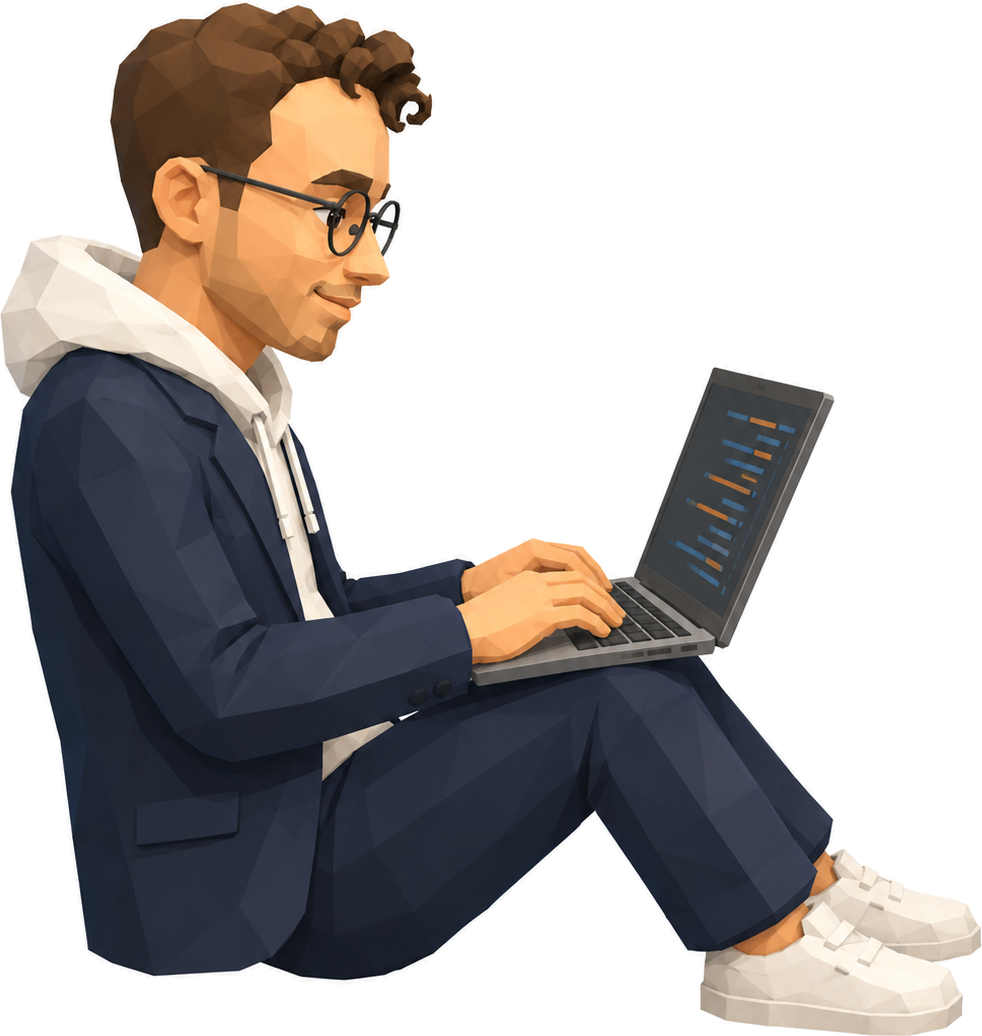
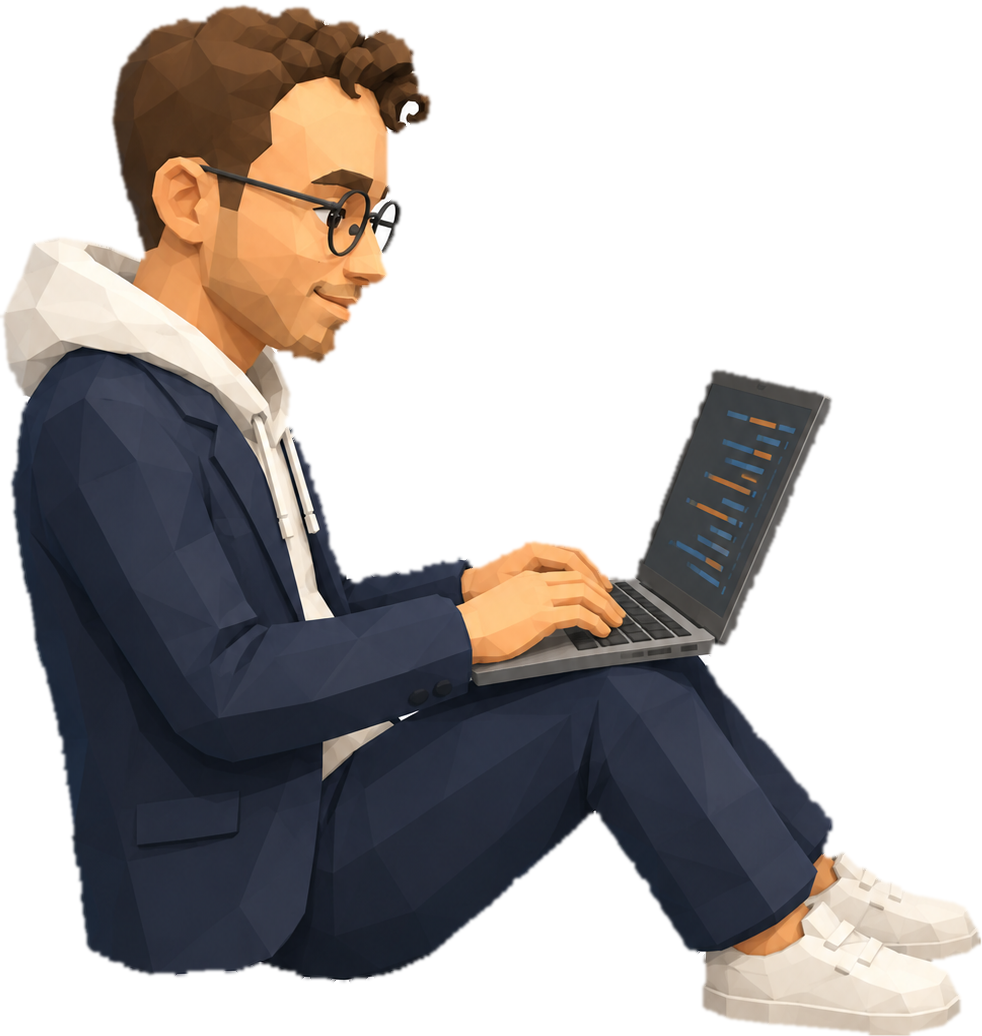
fix update

diff --git a/mockup/js/i18n.js b/mockup/js/i18n.js
@@ -1134,19 +1134,6 @@ const TERM_I18N = {
         '<span class="nf-k">Status:</span> dispo alternance — sept. 2026',
       ],
     },
-    banner: {
-      desc: 'petit dessin ASCII',
-      lines: [
-        '      ╔═══╗',
-        '     ╔╝▓▓▓╚╗',
-        '     ║▓▓▓▓▓║',
-        '     ║▓ ✓ ▓║',
-        '     ╚╗▓▓▓╔╝',
-        '      ╚═╦═╝',
-        '        ║',
-        '  [ HM — SECURED ]',
-      ],
-    },
     notFound: (cmd) => `commande introuvable : ${cmd} — tape <span class="k">help</span> pour la liste.`,
     easterSudo: [
       '<span class="error">[sudo] mot de passe pour hugo :</span> ********',
@@ -1252,19 +1239,6 @@ const TERM_I18N = {
         '<span class="nf-k">Status:</span> available for work-study — Sept. 2026',
       ],
     },
-    banner: {
-      desc: 'little ASCII drawing',
-      lines: [
-        '      ╔═══╗',
-        '     ╔╝▓▓▓╚╗',
-        '     ║▓▓▓▓▓║',
-        '     ║▓ ✓ ▓║',
-        '     ╚╗▓▓▓╔╝',
-        '      ╚═╦═╝',
-        '        ║',
-        '  [ HM — SECURED ]',
-      ],
-    },
     notFound: (cmd) => `command not found: ${cmd} — type <span class="k">help</span> for the list.`,
     easterSudo: [
       '<span class="error">[sudo] password for hugo:</span> ********',
@@ -1368,19 +1342,6 @@ const TERM_I18N = {
         '<span class="nf-k">Locale:</span> fr_FR · en_US · Île-de-France',
         '<span class="nf-k">Focus:</span> SOC / Blue Team · IAM · soberanía digital',
         '<span class="nf-k">Status:</span> disponible para formación dual — sept. 2026',
-      ],
-    },
-    banner: {
-      desc: 'pequeño dibujo ASCII',
-      lines: [
-        '      ╔═══╗',
-        '     ╔╝▓▓▓╚╗',
-        '     ║▓▓▓▓▓║',
-        '     ║▓ ✓ ▓║',
-        '     ╚╗▓▓▓╔╝',
-        '      ╚═╦═╝',
-        '        ║',
-        '  [ HM — SECURED ]',
       ],
     },
     notFound: (cmd) => `comando no encontrado: ${cmd} — escribe <span class="k">help</span> para ver la lista.`,

diff --git a/mockup/css/styles.css b/mockup/css/styles.css
@@ -903,7 +903,6 @@ h1,h2,h3{font-weight:700; letter-spacing:-0.01em;}
 .term-output .cmd{margin-top:3px;}
 .term-output .ok-mark{color:#7ee787; vertical-align:-2px; margin-left:2px;}
 .term-output .error{color:#d9a566;}
-.term-output .ascii{white-space:pre; word-break:normal; line-height:1.35; color:#6f89d9;}
 /* easter egg `matrix` : enchaîne plusieurs patterns visuels en surimpression de la sortie,
    changement net entre chacun, sans transition (voir runMatrixEasterEgg dans js/main.js) */
 .term-matrix-overlay{position:absolute; inset:0; z-index:5; background:#0d1110;}

diff --git a/mockup/js/main.js b/mockup/js/main.js
@@ -1232,13 +1232,8 @@ const TERM_COMMANDS = {
     get desc() { return termDict().neofetch.desc; },
     run: () => termDict().neofetch.lines,
   },
-  banner: {
-    get desc() { return termDict().banner.desc; },
-    run: () => termDict().banner.lines,
-  },
 };
 
-TERM_COMMANDS.banner.runClass = 'ascii';
 TERM_COMMANDS.neofetch.runClass = 'nf';
 TERM_COMMANDS.neofetch.speed = 1;
 
